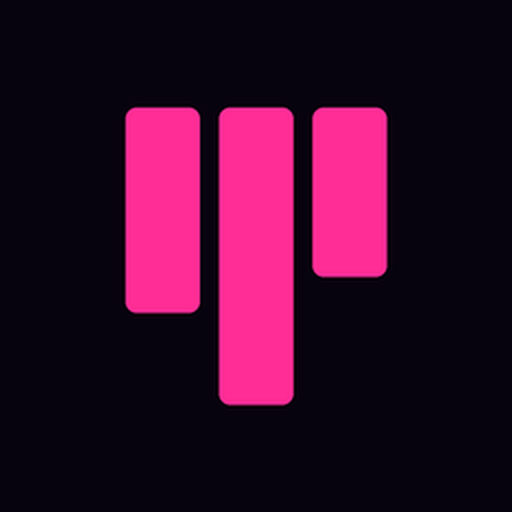
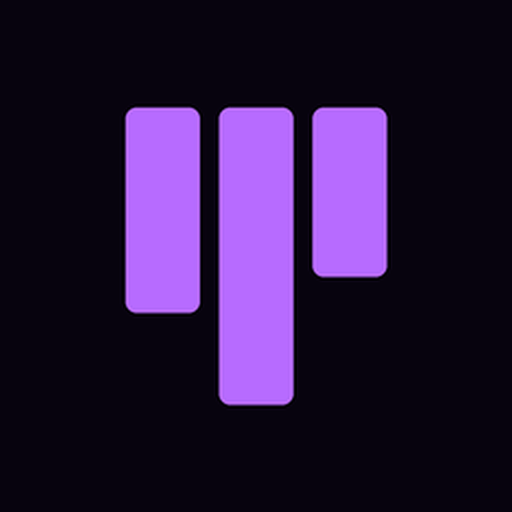
Accent is violet, not pink
#b76bff. Bright rather than the house gradient's #a020f0, for two reasons:
that purple only reaches 3.85:1 against the near-black ground, which is under
the bar for the small letterspaced labels, and it sits on top of MindTether's
#ae3dea. This one clears 6.38:1 and is its own colour.

The traced edge on a card was relying on the accent differing in hue from the
violet hairline. With a violet accent it has to differ in weight, so the inner
echo is a little stronger.

Icon, seed record, new-project default and the README badges all follow.

Changed region(s): [[0.2188, 0.1875, 0.7812, 0.8125]]

diff --git a/src/gui/mainwindow.cpp b/src/gui/mainwindow.cpp
@@ -344,7 +344,7 @@ void MainWindow::newProject() {
     if (!accepted || name.trimmed().isEmpty()) return;
 
     std::string error;
-    auto record = workspace_.create(name.trimmed().toStdString(), "#ff2d95", error);
+    auto record = workspace_.create(name.trimmed().toStdString(), "#b76bff", error);
     if (!record) {
         QMessageBox::warning(this, "AutoPM", QString::fromStdString(error));
         return;

diff --git a/src/gui/chrome.cpp b/src/gui/chrome.cpp
@@ -67,7 +67,7 @@ void Card::paintEvent(QPaintEvent*) {
     painter.drawRoundedRect(outer, radius, radius);
 
     // The echo three pixels inside the stroke: the suite's traced edge.
-    painter.setPen(QPen(theme::accentAt(highlighted_ ? 60 : 38), 1));
+    painter.setPen(QPen(theme::accentAt(highlighted_ ? 80 : 56), 1));
     painter.drawRoundedRect(outer.adjusted(3, 3, -3, -3), radius - 3, radius - 3);
 }
 

diff --git a/src/gui/main.cpp b/src/gui/main.cpp
@@ -68,7 +68,7 @@ int main(int argc, char** argv) {
             report.write(theme::resolvedFaces().toUtf8());
         return 0;
     }
-    theme::setAccent(QColor("#ff2d95"));
+    theme::setAccent(QColor("#b76bff"));
     app.setFont(theme::bodyFont(14));
     app.setStyleSheet(theme::styleSheet());
     app.setWindowIcon(QIcon(assetsDir + "/autopm.ico"));

diff --git a/assets/make-icon.py b/assets/make-icon.py
@@ -11,7 +11,7 @@ taskbar. Small sizes get their own pixel-snapped geometry.
 from PIL import Image, ImageDraw
 
 GROUND = (7, 3, 14, 255)      # --void
-MARK = (255, 45, 149, 255)    # the product accent
+MARK = (183, 107, 255, 255)   # the product accent
 
 SIZES = [16, 24, 32, 48, 64, 128, 256]
 

diff --git a/src/gui/theme.cpp b/src/gui/theme.cpp
@@ -12,7 +12,7 @@
 namespace theme {
 namespace {
 
-QColor g_accent("#ff2d95");
+QColor g_accent("#b76bff");
 QString g_label = "Segoe UI";
 QString g_serif = "Georgia";
 QString g_body  = "Segoe UI";

diff --git a/README.md b/README.md
@@ -6,9 +6,9 @@
 
 **Learn the project manager's job by doing it, one question at a time.**
 
-[![licence](https://img.shields.io/badge/licence-all%20rights%20reserved-ff2d95?style=flat-square)](LICENSE)
-[![platform](https://img.shields.io/badge/platform-Windows%2011-ff2d95?style=flat-square)](#requirements)
-[![stack](https://img.shields.io/badge/C%2B%2B17-Qt%206.8-ff2d95?style=flat-square)](#requirements)
+[![licence](https://img.shields.io/badge/licence-all%20rights%20reserved-b76bff?style=flat-square)](LICENSE)
+[![platform](https://img.shields.io/badge/platform-Windows%2011-b76bff?style=flat-square)](#requirements)
+[![stack](https://img.shields.io/badge/C%2B%2B17-Qt%206.8-b76bff?style=flat-square)](#requirements)
 
 </div>
 
